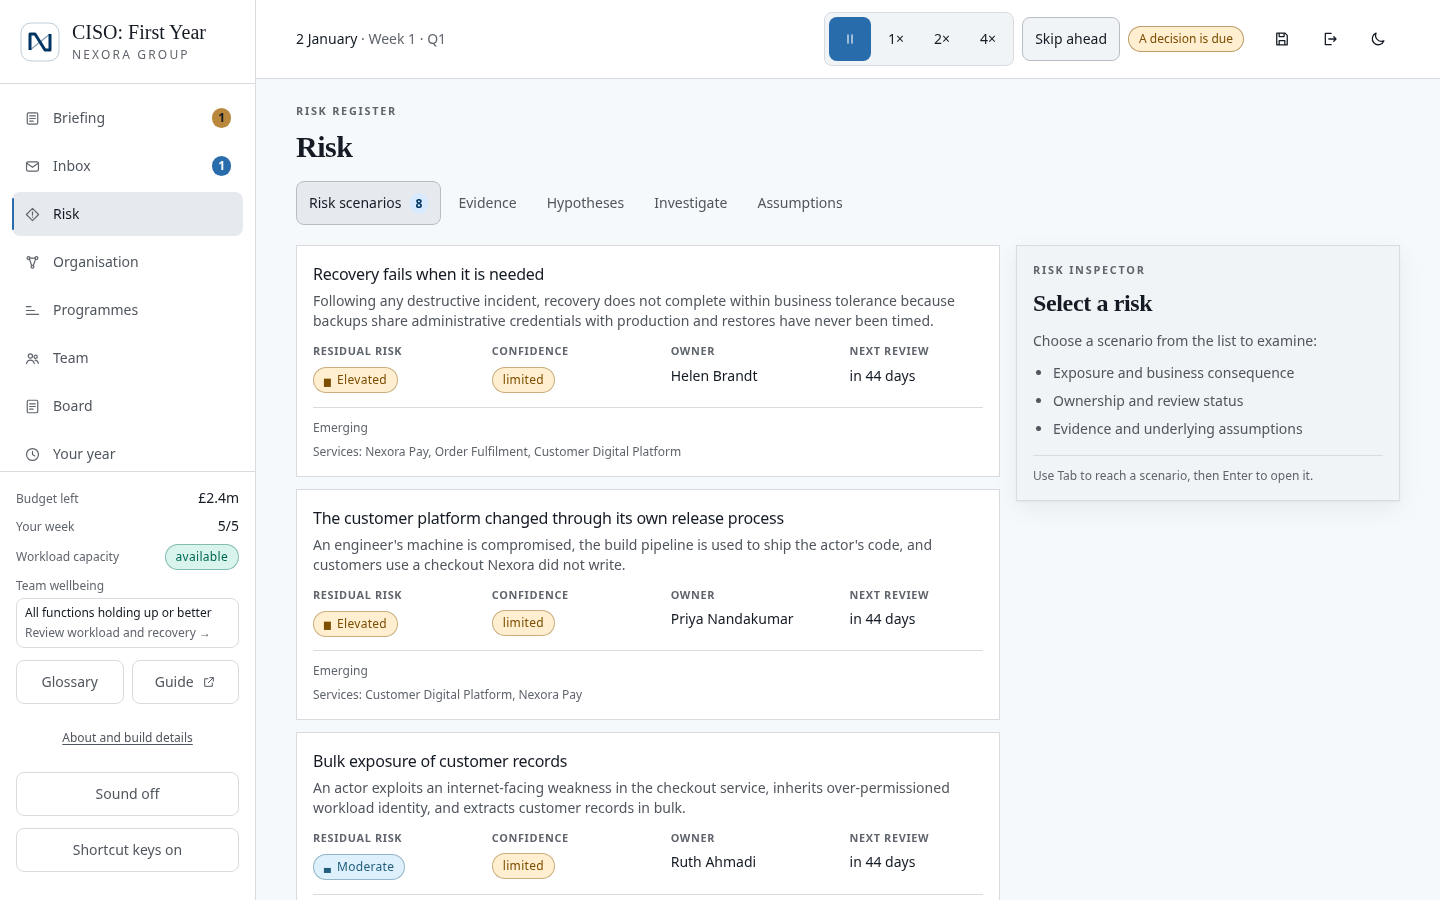
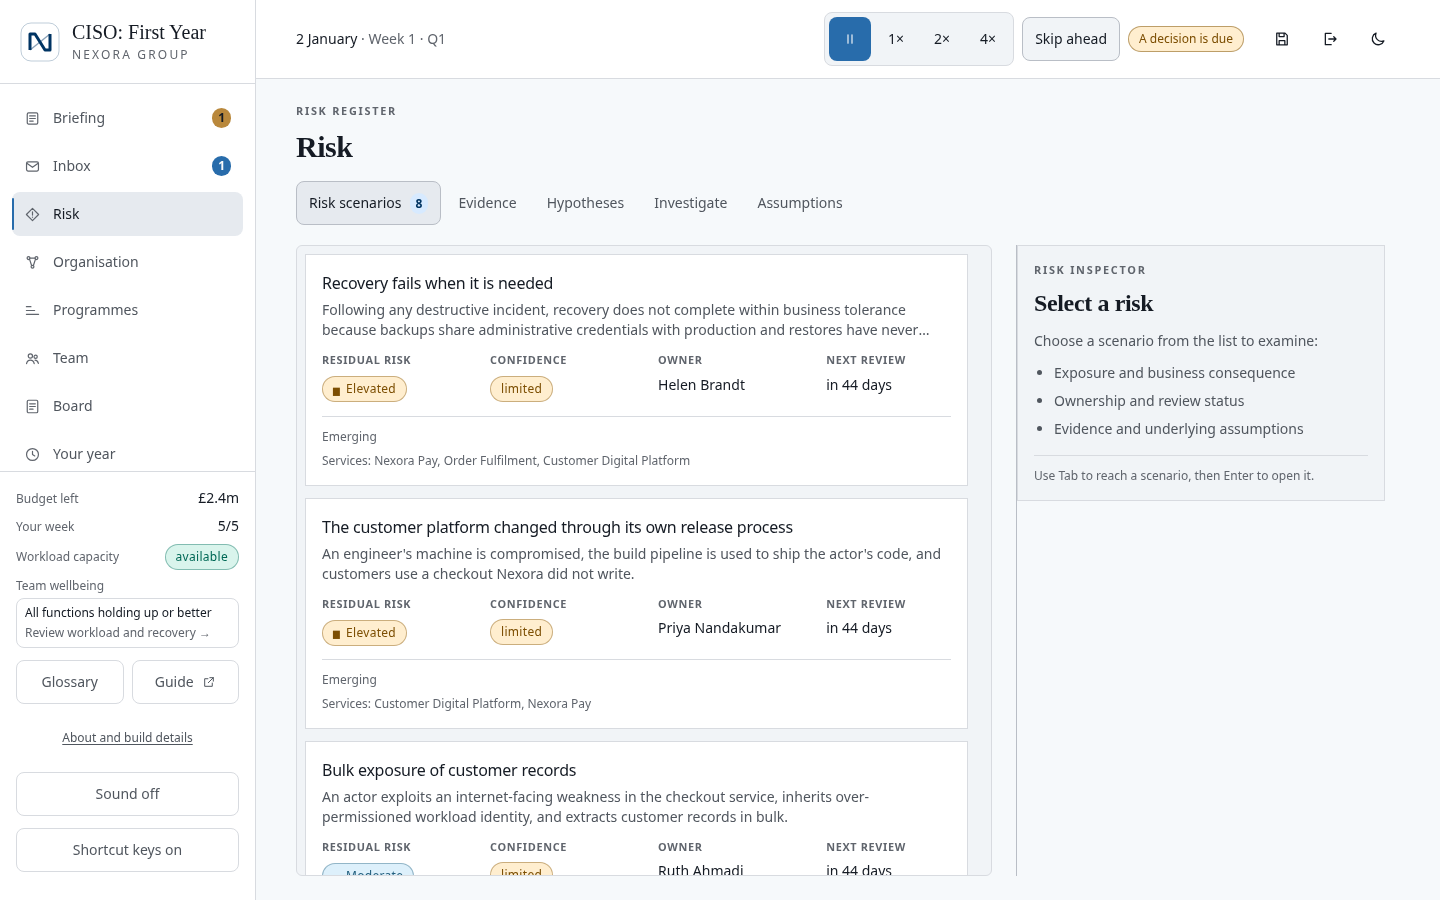
Clarify workspace panels and message reading hierarchy

diff --git a/src/screens/inbox/InboxScreen.tsx b/src/screens/inbox/InboxScreen.tsx
@@ -128,7 +128,7 @@ export function InboxScreen() {
         <EmptyState title="Nothing here" description="No messages match this filter yet." illustration="inbox"
           action={<Button variant="secondary" size="sm" onClick={() => filter === 'all' ? useGameStore.getState().setScreen('home') : setFilter('all')}>{filter === 'all' ? 'Back to the briefing' : 'Show all messages'}</Button>} />
       ) : (
-        <div className="split-workspace grid grid-cols-1 gap-4 md:grid-cols-[minmax(0,22rem)_minmax(0,1fr)]">
+        <div className="split-workspace grid grid-cols-1 gap-4 md:grid-cols-[minmax(0,18rem)_minmax(0,1fr)] xl:grid-cols-[minmax(0,22rem)_minmax(0,1fr)]">
           <ul ref={list} tabIndex={0} className="split-pane divide-y divide-line border-y border-line" aria-label="Messages">
             {messages.slice(0, 60).map((message) => (
               <li key={message.id}>
@@ -143,10 +143,7 @@ export function InboxScreen() {
                   }}
                   aria-current={selected?.id === message.id ? 'true' : undefined}
                   className={cn(
-                    'w-full border-l-2 px-3 py-4 text-left transition-colors',
-                    selected?.id === message.id
-                      ? 'border-accent bg-accent-soft/30'
-                      : 'border-transparent hover:bg-surface-2',
+                    'workspace-choice w-full border-l-2 border-transparent px-3 py-4 text-left transition-colors',
                   )}
                 >
                     <p className={`message-kind message-kind-${MESSAGE_KIND[message.type].style} mb-2 flex items-center gap-2 text-xs font-medium`}>
@@ -160,7 +157,7 @@ export function InboxScreen() {
                         reading 2 January read as a mistake. */}
                     <span className="shrink-0 text-xs tabular-nums text-ink-faint">{shortDate(message.day)}</span>
                   </div>
-                  <p className={cn('mt-1 line-clamp-2 leading-snug text-pretty', message.read ? 'text-ink-muted' : 'font-medium')}>
+                  <p className={cn('mt-2 line-clamp-2 leading-snug text-pretty text-ink', !message.read && 'font-semibold')}>
                     {message.subject}
                   </p>
                   <div className="mt-1.5 flex flex-wrap gap-1.5">
@@ -190,7 +187,7 @@ export function InboxScreen() {
                   </p>
                   <p className="text-xs text-ink-faint md:text-sm">{formatGameDate(selected.day).label}</p>
                 </div>
-                <h2 ref={heading} tabIndex={-1} className="mt-1 font-display text-2xl leading-tight text-balance">{selected.subject}</h2>
+                <h2 ref={heading} tabIndex={-1} className="message-subject mt-3 font-display text-2xl leading-tight text-balance">{selected.subject}</h2>
                 <div className="sender-signature mt-2 md:mt-4 flex items-center gap-3">
                   {sender && <PersonPortrait key={sender.id} id={sender.id} name={sender.name} size={important ? 'large' : 'small'} />}
                   <div className="min-w-0 text-sm">
@@ -199,7 +196,7 @@ export function InboxScreen() {
                 </div>
                 <div className="correspondence-body mt-3 md:mt-6 space-y-4 text-pretty">
                   {selected.body.split('\n\n').map((paragraph, position) => (
-                    <p key={position} className="whitespace-pre-line leading-relaxed">
+                    <p key={position} className="whitespace-pre-line">
                       {paragraph}
                     </p>
                   ))}

diff --git a/src/index.css b/src/index.css
@@ -711,3 +711,24 @@
 html[data-gameplay-scroll="true"], html[data-gameplay-scroll="true"] body {
   overscroll-behavior-y: none;
 }
+
+/* A shared selection cue without changing row geometry or trust outlines. */
+.workspace-choice { overflow-wrap: anywhere; }
+.workspace-choice:hover:not([aria-current="true"]) { background: var(--surface-2); }
+.workspace-choice[aria-current="true"] { background: var(--accent-soft); border-color: var(--accent); box-shadow: inset 3px 0 var(--accent); }
+.message-subject { font-size: clamp(1.5rem, 2.2vw, 2rem); overflow-wrap: anywhere; }
+.message-reader .sender-signature { border-top: 0; }
+.split-pane .card-grain { box-shadow: none; }
+@media screen and (min-width: 1024px) {
+  .split-shell .split-workspace { gap: 1.5rem; }
+  .split-workspace > .split-pane:first-child { border: 1px solid var(--line); border-radius: 0.375rem; background: var(--surface-2); padding: 0.5rem; }
+  .split-workspace > .split-pane { scrollbar-color: var(--ink-faint) var(--surface-2); }
+  .split-workspace > .split-pane:last-child { border-inline-start: 1px solid var(--line-strong); }
+}
+@media (max-width: 767px) {
+  .message-reader .message-subject { margin-top: 0.75rem; }
+  .message-reader .sender-signature { margin-top: 0.75rem; padding-bottom: 0.75rem; }
+  .message-reader .correspondence-body { margin-top: 1.25rem; }
+  .split-detail h2 { overflow-wrap: anywhere; }
+  .split-detail button, .message-reader button { white-space: normal; }
+}

diff --git a/src/screens/organisation/OrganisationScreen.tsx b/src/screens/organisation/OrganisationScreen.tsx
@@ -149,8 +149,7 @@ export function OrganisationScreen() {
                       onClick={() => pick(node.id)}
                       aria-current={selectedNodeId === node.id ? 'true' : undefined}
                       className={cn(
-                        'w-full rounded-lg border bg-surface p-3 text-left transition-colors',
-                        selectedNodeId === node.id ? 'border-accent border-l-4 bg-accent-soft/25' : 'border-line hover:border-line-strong',
+                        'workspace-choice w-full rounded-lg border border-line bg-surface p-3 text-left transition-colors',
                         // Something you were told about and never checked is
                         // drawn as what it is: an outline, not a fact. The
                         // badge said so already, but a badge is a label on a

diff --git a/src/screens/risk/RiskScreen.tsx b/src/screens/risk/RiskScreen.tsx
@@ -66,9 +66,9 @@ export function RiskScreen() {
                     <button
                       type="button"
                       onClick={() => setUi({ selectedScenarioId: risk.id })}
+                      aria-current={selectedScenarioId === risk.id ? 'true' : undefined}
                       className={cn(
-                        'w-full rounded-[--radius-card] border bg-surface p-4 text-left transition-colors',
-                        selectedScenarioId === risk.id ? 'border-accent' : 'border-line hover:border-line-strong',
+                        'workspace-choice w-full rounded-[--radius-card] border border-line bg-surface p-4 text-left transition-colors',
                       )}
                     >
                       <h3 className="font-medium text-balance">{risk.title}</h3>

diff --git a/README.md b/README.md
@@ -144,7 +144,10 @@ have independently scrolling list/map and detail panes. Browsing a list keeps th
 reader in place; selecting another item returns its detail pane to the top.
 Headers and filters remain reachable, and narrower layouts retain their existing
 page scrolling and phone reader navigation. Map attribution uses the shared
-minimum touch height and stays reachable inside its scroll pane.
+minimum touch height and stays reachable inside its scroll pane. The panes have
+separate frames and a wider gutter; Inbox gives the reader more room on tablets.
+Messages, risks and systems share a consistent selection cue. Message subjects
+lead the reading hierarchy, with quieter metadata and roomier phone spacing.
 
 During gameplay, root overscroll controls and a targeted touch fallback suppress
 accidental pull-to-refresh at the top of a page. Normal scrolling, dialog readers,

diff --git a/CHANGELOG.md b/CHANGELOG.md
@@ -10,6 +10,9 @@ The game as it stands after the roadmap's engineering phases
 (`docs/ROADMAP.md`, Phases 0–7). Version 0.1.0 until the owner tags a release.
 
 ### Playing
+
+- Clarified Inbox, Risk and Organisation panel boundaries, unified selection
+  styling, and improved message hierarchy and narrow-screen reading space.
 - Added a gameplay-only pull-to-refresh guard for downward swipes at the page
   edge, while preserving ordinary scrolling and dialog readers.
 - Fixed coupled scrolling on iPad landscape and desktop: Inbox, Risk scenarios

diff --git a/AGENTS.md b/AGENTS.md
@@ -32,6 +32,11 @@ changes.
 
 ## Artwork
 
+- Split-workspace choices share the `workspace-choice` selection cue and
+  `aria-current`. Keep selection geometry stable, preserve unverified systems’
+  dashed outlines, and distinguish hover from selection in both themes.
+  Keep pane framing desktop-only and phone reader actions freely wrapping.
+
 - Give map attribution links a real layout box so the shared minimum touch
   height applies and WebKit can scroll their hit target into clipped panes.
 

diff --git a/docs/PLAYER_GUIDE.md b/docs/PLAYER_GUIDE.md
@@ -230,6 +230,9 @@ whatever sounds best.
 
 ### Reading your inbox
 
+On wider screens, the framed list and reader scroll separately. The highlighted
+row marks the open message; the same selection cue is used for risks and systems.
+
 ![The Inbox](images/03b-inbox.png)
 
 Each message has a type label and icon, so a personal message, evidence update
